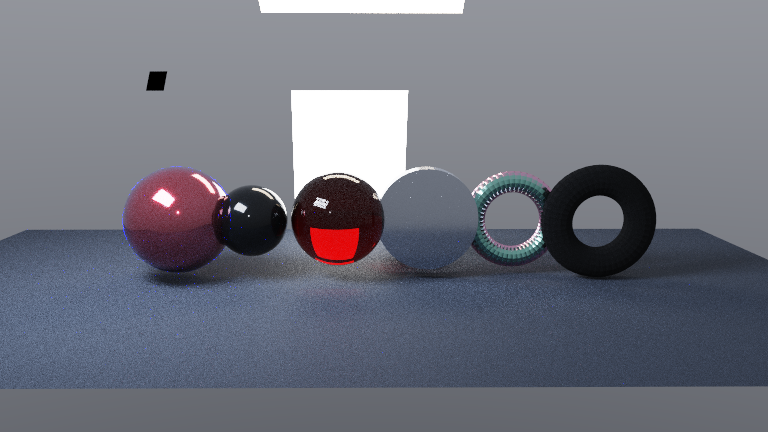
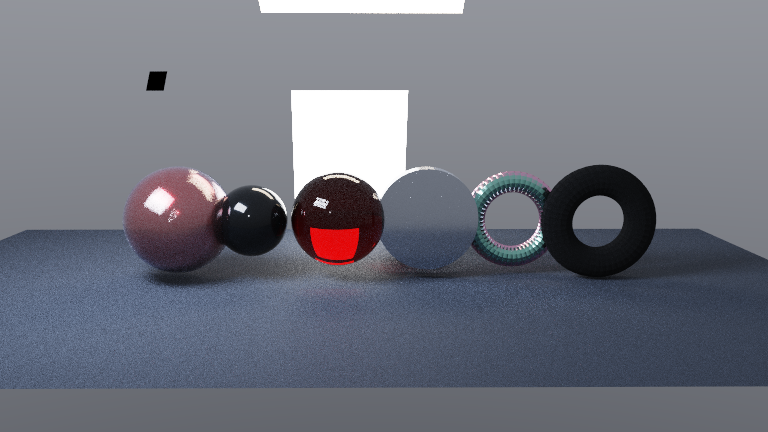
feat(materials): strengthen automotive paint flake facets

Changed region(s): [[0.1562, 0.3912, 0.3125, 0.5718]]

diff --git a/Engine/ContentInterchange/ShaderballPreview.cpp b/Engine/ContentInterchange/ShaderballPreview.cpp
@@ -604,17 +604,22 @@ vec3 Radiance(vec3 O, vec3 D, Rng& R)
         else
             Ns = Ng;
         if (dot(Ns, D) > 0.0f) Ns = -Ns;
-        vec3 Tt, Bt;
-        ShadingFrame(Ns, Tt, Bt);
-        vec3 wo(dot(-D, Tt), dot(-D, Bt), dot(-D, Ns));
         ShadingRecord m = g_Mats[T.Mat];   // local copy: the v1 nested fallback below may zero transmission
 #ifdef FRONTIER_AUTOMOTIVE_PREVIEW
         // The standalone automotive scene opts into the shared analytic flake/flop profile. The hook is compile-time
         // isolated from the ordinary shaderball exhibit and Project-Zero; the material math itself lives in the
         // included AutomotiveMaterialProfiles.slang, which is also visible to the GPU Slang evaluator.
         if (m.Metalness > 0.8f && m.CoatWeight > 0.0f)
-            m = AutomotiveApplyTriCoatFlakes(m, P, Ns, -D, vec3(0.025f, 0.14f, 0.72f), 0.42f, 18.0f, 0.37f);
+        {
+            // Perturb the actual shading frame before the lobe is evaluated; otherwise the flakes would only change
+            // F0 and could never create the pin-point facet highlights that make automotive paint read as metallic.
+            Ns = AutomotiveFlakeNormal(P, Ns, 0.78f, 48.0f, 0.37f);
+            m = AutomotiveApplyTriCoatFlakes(m, P, Ns, -D, vec3(0.08f, 0.24f, 0.88f), 0.78f, 48.0f, 0.37f);
+        }
 #endif
+        vec3 Tt, Bt;
+        ShadingFrame(Ns, Tt, Bt);
+        vec3 wo(dot(-D, Tt), dot(-D, Bt), dot(-D, Ns));
         bool solidHit = g_SolidBall && T.Mat == 0 && m.TransmissionWeight > 0.0f;
         bool fromInside = Inside && T.Mat == EntryMat;
         if (Inside && T.Mat != EntryMat && m.TransmissionWeight > 0.0f)

diff --git a/Exhibits/Workbench/Automotive/AutomotiveMaterialPreview.cpp b/Exhibits/Workbench/Automotive/AutomotiveMaterialPreview.cpp
@@ -200,9 +200,8 @@ void BuildSuiteScene()
 void BuildPaintScene()
 {
     ClearScene();
-    // Silver-blue showcase paint matches the real flake reference: the suite keeps its red paint sample, while this
-    // close-up makes the microflake population readable against a light metallic base.
-    g_Mats[0] = AutomotiveTriCoat(vec3(0.30f, 0.46f, 0.62f), 0.11f, 0.045f, 1.58f);
+    // Silver-blue paint keeps the flakes readable against the reference's cool automotive clearcoat.
+    g_Mats[0] = AutomotiveTriCoat(vec3(0.24f, 0.42f, 0.66f), 0.11f, 0.045f, 1.58f);
     g_Mats[1] = GroundMaterial();
     for (int I = 2; I < 8; ++I) g_Mats[I] = GroundMaterial();
     AddQuad(vec3(-6.0f, -4.0f, 0.0f), vec3(6.0f, -4.0f, 0.0f),

diff --git a/References/AutomotiveMaterials-Plan.md b/References/AutomotiveMaterials-Plan.md
@@ -50,13 +50,15 @@ material math is identical to the Slang evaluator. GPU lowering/runtime validati
 
 Implemented in the shared profile source and standalone preview:
 
-1. `AutomotiveFlakeSignal` uses two deterministic incommensurate analytic bands for sparse flakes.
-2. `AutomotiveApplyTriCoatFlakes` modulates the shared base/coat record and micro-roughness; it does not add a fake
-   light source or bypass the OpenPBR evaluator.
-3. `AutomotiveFlopColor` shifts face tint toward a grazing tint with a canonical fifth-power Fresnel-style curve.
-4. The CPU preview hook is compile-time isolated to the standalone automotive scene; the profile functions remain in the
+1. `AutomotiveFlakeSignal` uses two deterministic incommensurate analytic bands for fine, dense flakes.
+2. `AutomotiveFlakeNormal` gives selected flakes a bounded facet tilt before the shared lobe frame is built, producing
+   pin-point highlights rather than only a colour-noise mask.
+3. `AutomotiveApplyTriCoatFlakes` modulates the shared base/coat record, micro-roughness, F82 tint and fuzz population;
+   it does not add a fake light source or bypass the OpenPBR evaluator.
+4. `AutomotiveFlopColor` shifts face tint toward a grazing tint with a canonical fifth-power Fresnel-style curve.
+5. The CPU preview hook is compile-time isolated to the standalone automotive scene; the profile functions remain in the
    common Slang include for the eventual GPU material-record integration.
-5. `AutomotivePaintFlakeFlopComparison.png` renders face-on versus grazing views.
+6. `AutomotivePaintFlakeFlopComparison.png` renders face-on versus grazing views.
 
 The GPU host does not serialize the new automotive parameters yet. That is intentional and remains part of the later
 Project-Zero integration gate.

diff --git a/Exhibits/Gallery/Automotive/README.md b/Exhibits/Gallery/Automotive/README.md
@@ -21,9 +21,9 @@ is included by `MaterialEvaluation.slang` and therefore is shared with the GPU s
   titanium, tire rubber, and Alcantara on procedural preview geometry.
 - `AutomotiveOpticsAndCoatings.png` — clear headlight glass, red tail-lens glass, blue tri-coat paint, brushed alloy,
   and thin-film titanium in a closer optics/coating arrangement.
-- `AutomotivePaintFlakeFlopComparison.png` — a silver-blue tri-coat paint close-up from a face-on and grazing camera.
-  It is tuned to make the deterministic analytic flake population readable, while the grazing-angle flop remains active
-  in both panels.
+- `AutomotivePaintFlakeFlopComparison.png` — cool silver-blue tri-coat paint from a face-on and grazing camera. The
+  deterministic fine-flake signal, bounded facet tilt, and grazing-angle flop are active in both panels; the small
+  direct-light source is what makes the individual flakes sparkle rather than flattening them into colour noise.
 
 The geometry is generated from UV-parameterized spheres, torus rings, and a cylinder. The current flakes are a
 texture-free analytic fallback in the shared Slang profile; UV-backed carbon weave and tread textures remain deferred
